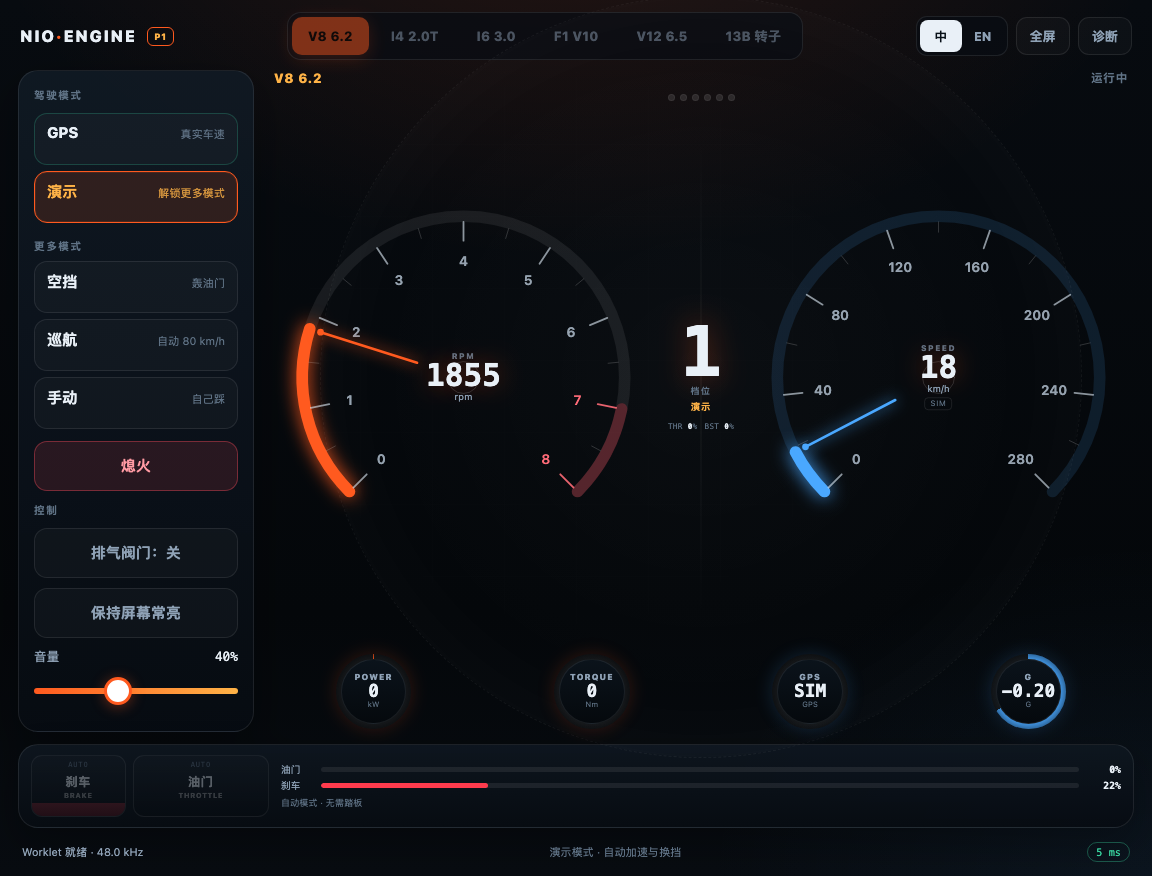
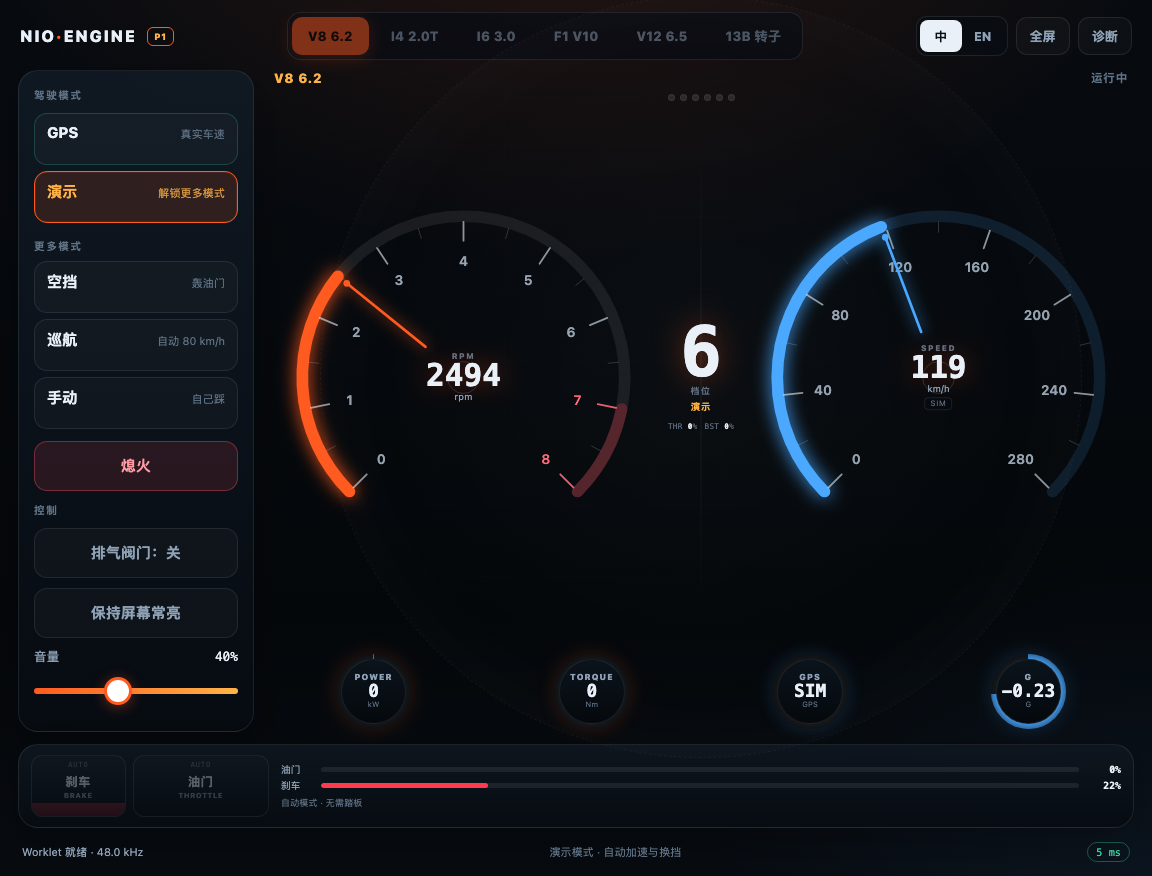
update gear logic

diff --git a/p1/app.js b/p1/app.js
@@ -46,7 +46,7 @@
         torque: 620,
         torqueRpm: 4600,
         shiftUp: 6600,
-        shiftDown: 2200,
+        shiftDown: 1800,
         launchRpm: 2200,
         drag: 0.65,
         rolling: 0.012,
@@ -84,7 +84,7 @@
         torque: 380,
         torqueRpm: 3200,
         shiftUp: 6200,
-        shiftDown: 2000,
+        shiftDown: 1800,
         launchRpm: 2600,
         drag: 0.62,
         rolling: 0.012,
@@ -122,7 +122,7 @@
         torque: 500,
         torqueRpm: 4000,
         shiftUp: 7000,
-        shiftDown: 2200,
+        shiftDown: 1800,
         launchRpm: 2200,
         drag: 0.63,
         rolling: 0.012,
@@ -160,7 +160,7 @@
         torque: 520,
         torqueRpm: 15000,
         shiftUp: 17000,
-        shiftDown: 8500,
+        shiftDown: 4000,
         launchRpm: 12000,
         drag: 0.55,
         rolling: 0.012,
@@ -198,7 +198,7 @@
         torque: 690,
         torqueRpm: 5500,
         shiftUp: 8200,
-        shiftDown: 3000,
+        shiftDown: 2000,
         launchRpm: 3000,
         drag: 0.6,
         rolling: 0.012,
@@ -236,7 +236,7 @@
         torque: 330,
         torqueRpm: 4500,
         shiftUp: 7800,
-        shiftDown: 2800,
+        shiftDown: 2000,
         launchRpm: 4000,
         drag: 0.6,
         rolling: 0.012,
@@ -1163,11 +1163,12 @@
     var cfg = state.preset.drive;
     var lo = Math.max(1000, state.preset.redline * 0.25);
     if (speed < 0.5) return 1;
+    var best = 1;
     for (var g = 1; g <= cfg.gears.length; g++) {
       var rpm = rpmFromSpeed(speed, g, cfg);
-      if (rpm >= lo && rpm <= cfg.shiftUp * 0.85) return g;
+      if (rpm >= lo && rpm <= cfg.shiftUp * 0.85) best = g;
     }
-    return cfg.gears.length;
+    return best;
   }
 
   function torqueCurve(rpm, peakRpm) {
@@ -1429,13 +1430,12 @@
     var cfg = state.preset.drive;
     var lo = state.preset.redline * 0.28;
     var hi = state.preset.redline * 0.62;
-    var fallback = 1;
+    var best = 1;
     for (var g = 1; g <= cfg.gears.length; g++) {
       var rpm = rpmFromSpeed(speedMps, g, cfg);
-      if (rpm >= lo && rpm <= hi) return g;
-      if (rpm < lo) fallback = g;
+      if (rpm >= lo && rpm <= hi) best = g;
     }
-    return fallback;
+    return best;
   }
 
   function updateGpsDrive(dt, now) {
@@ -1498,8 +1498,9 @@
       var rpmWheel = rpmFromSpeed(d.speed, d.gear, cfg);
       if (d.shiftTimer <= 0) {
         var loadForShift = clamp(0.35 + Math.max(g.accelSmooth, 0) * 0.3, 0, 1);
-        var upRpm = cfg.shiftUp * (0.55 + 0.45 * loadForShift);
-        var downRpm = cfg.shiftDown;
+        var upRpm = Math.max(2200, cfg.shiftUp * (0.28 + 0.10 * loadForShift));
+        // Keep downshift well below the next upshift point to avoid gear hunting.
+        var downRpm = Math.min(cfg.shiftDown, upRpm * 0.58);
         if (rpmWheel > upRpm && d.gear < cfg.gears.length && d.shiftCooldown <= 0) {
           d.gear += 1;
           d.shiftTimer = 0.16;
@@ -1753,15 +1754,16 @@
         d.speed = clamp(d.speed + accel * dt, 0, cfg.topKmh / 3.6);
 
         var shiftUpNow = Math.max(
-          2800,
-          cfg.shiftUp * (0.55 + 0.45 * Math.min(1, d.throttle + 0.12))
+          2200,
+          cfg.shiftUp * (0.38 + 0.34 * Math.min(1, d.throttle + 0.10))
         );
+        var shiftDownNow = Math.min(cfg.shiftDown, shiftUpNow * 0.58);
         if (d.rpm > shiftUpNow && d.gear < cfg.gears.length && d.shiftCooldown <= 0) {
           d.gear += 1;
           d.shiftTimer = 0.18;
           d.shiftCooldown = 0.65;
           d.load = 0;
-        } else if (d.rpm < cfg.shiftDown && d.gear > 1 && d.shiftCooldown <= 0) {
+        } else if (d.rpm < shiftDownNow && d.gear > 1 && d.shiftCooldown <= 0) {
           d.gear -= 1;
           d.shiftTimer = 0.12;
           d.shiftCooldown = 0.55;

diff --git a/p1/README.md b/p1/README.md
@@ -21,7 +21,7 @@ npm run build:p1     # 生成 p1/dist/index.html + p1/dist/engine-worklet.js
 npm run serve:p1     # http://127.0.0.1:4174
 ```
 
-P1 版本：`0.8.1`。
+P1 版本：`0.9.0`。
 
 ### 部署
 
@@ -118,6 +118,20 @@ server {
 
 ---
 
+## 换挡逻辑（0.9.0）
+
+0.9.0 把自动换挡调得更积极，优先让城市速度也进入更高档位：
+
+- 正常轻油/巡航会**更早升挡**，不再长时间卡在低挡；
+- GPS 模式在 60 km/h 左右通常已经进入 3 挡，80–100 km/h 可到 5–6 挡；
+- 手动/巡航/演示共用同一套积极升挡策略；
+- 增加降挡滞后，避免低转速时升挡/降挡来回跳；
+- 高转声浪仍保留：全油门时不会过早升挡，仍能拉到较高转速。
+
+> 这是声浪体验优先的虚拟齿比，不是真实车辆换挡点。F1 V10 因为 18,000 rpm 红线和 8 挡齿比，仍会保留低挡高转的性格。
+
+---
+
 ## 六种声浪
 
 | 预设 | 结构 | 特征 |
@@ -141,7 +155,7 @@ server {
 
 ## 音量与增益
 
-0.4.1 修正了车机上的整体音量偏小问题；0.5.0 / 0.6.0 / 0.7.0 / 0.8.0 / 0.8.1 保留该增益与软限幅：
+0.4.1 修正了车机上的整体音量偏小问题；0.5.0 / 0.6.0 / 0.7.0 / 0.8.0 / 0.8.1 / 0.9.0 保留该增益与软限幅：
 
 ```text
 Worklet → EQ → 压缩 → master（音量 × 2.2）→ 软限幅 → analyser → 扬声器

diff --git a/README.md b/README.md
@@ -2,7 +2,7 @@
 
 仓库包含四个单文件车机 Web 应用：
 
-- **P1 声浪应用（当前，0.8.1）**：默认 GPS 驱动，演示模式解锁空挡/巡航/手动；6 种发动机、RPM/速度双大表 + 中央档位 + 四联辅助表、自动换挡、涡轮/回火/限转、诊断面板。
+- **P1 声浪应用（当前，0.9.0）**：默认 GPS 驱动，演示模式解锁空挡/巡航/手动；6 种发动机、RPM/速度双大表 + 中央档位 + 四联辅助表、自动换挡、涡轮/回火/限转、诊断面板。
 - **P2.0 传感器探测（上车前）**：验证车机浏览器能否给出 GPS 速度、加速度和姿态；首轮结论是 GPS 可用、IMU 不可用。
 - **P2.2 JS Bridge 验证（上车前）**：探测车机 WebView 是否注入 JS Bridge、Android 接口或 WKWebView handler，并只读尝试获取行车数据；结果在 `/bridge/`。
 - **P0 能力探测（保留）**：先用真车验证 HTTPS、AudioWorklet、延迟、音频焦点和 10 分钟长稳；结论见 [P0 真车结果](#p0-真车结果两次)。
